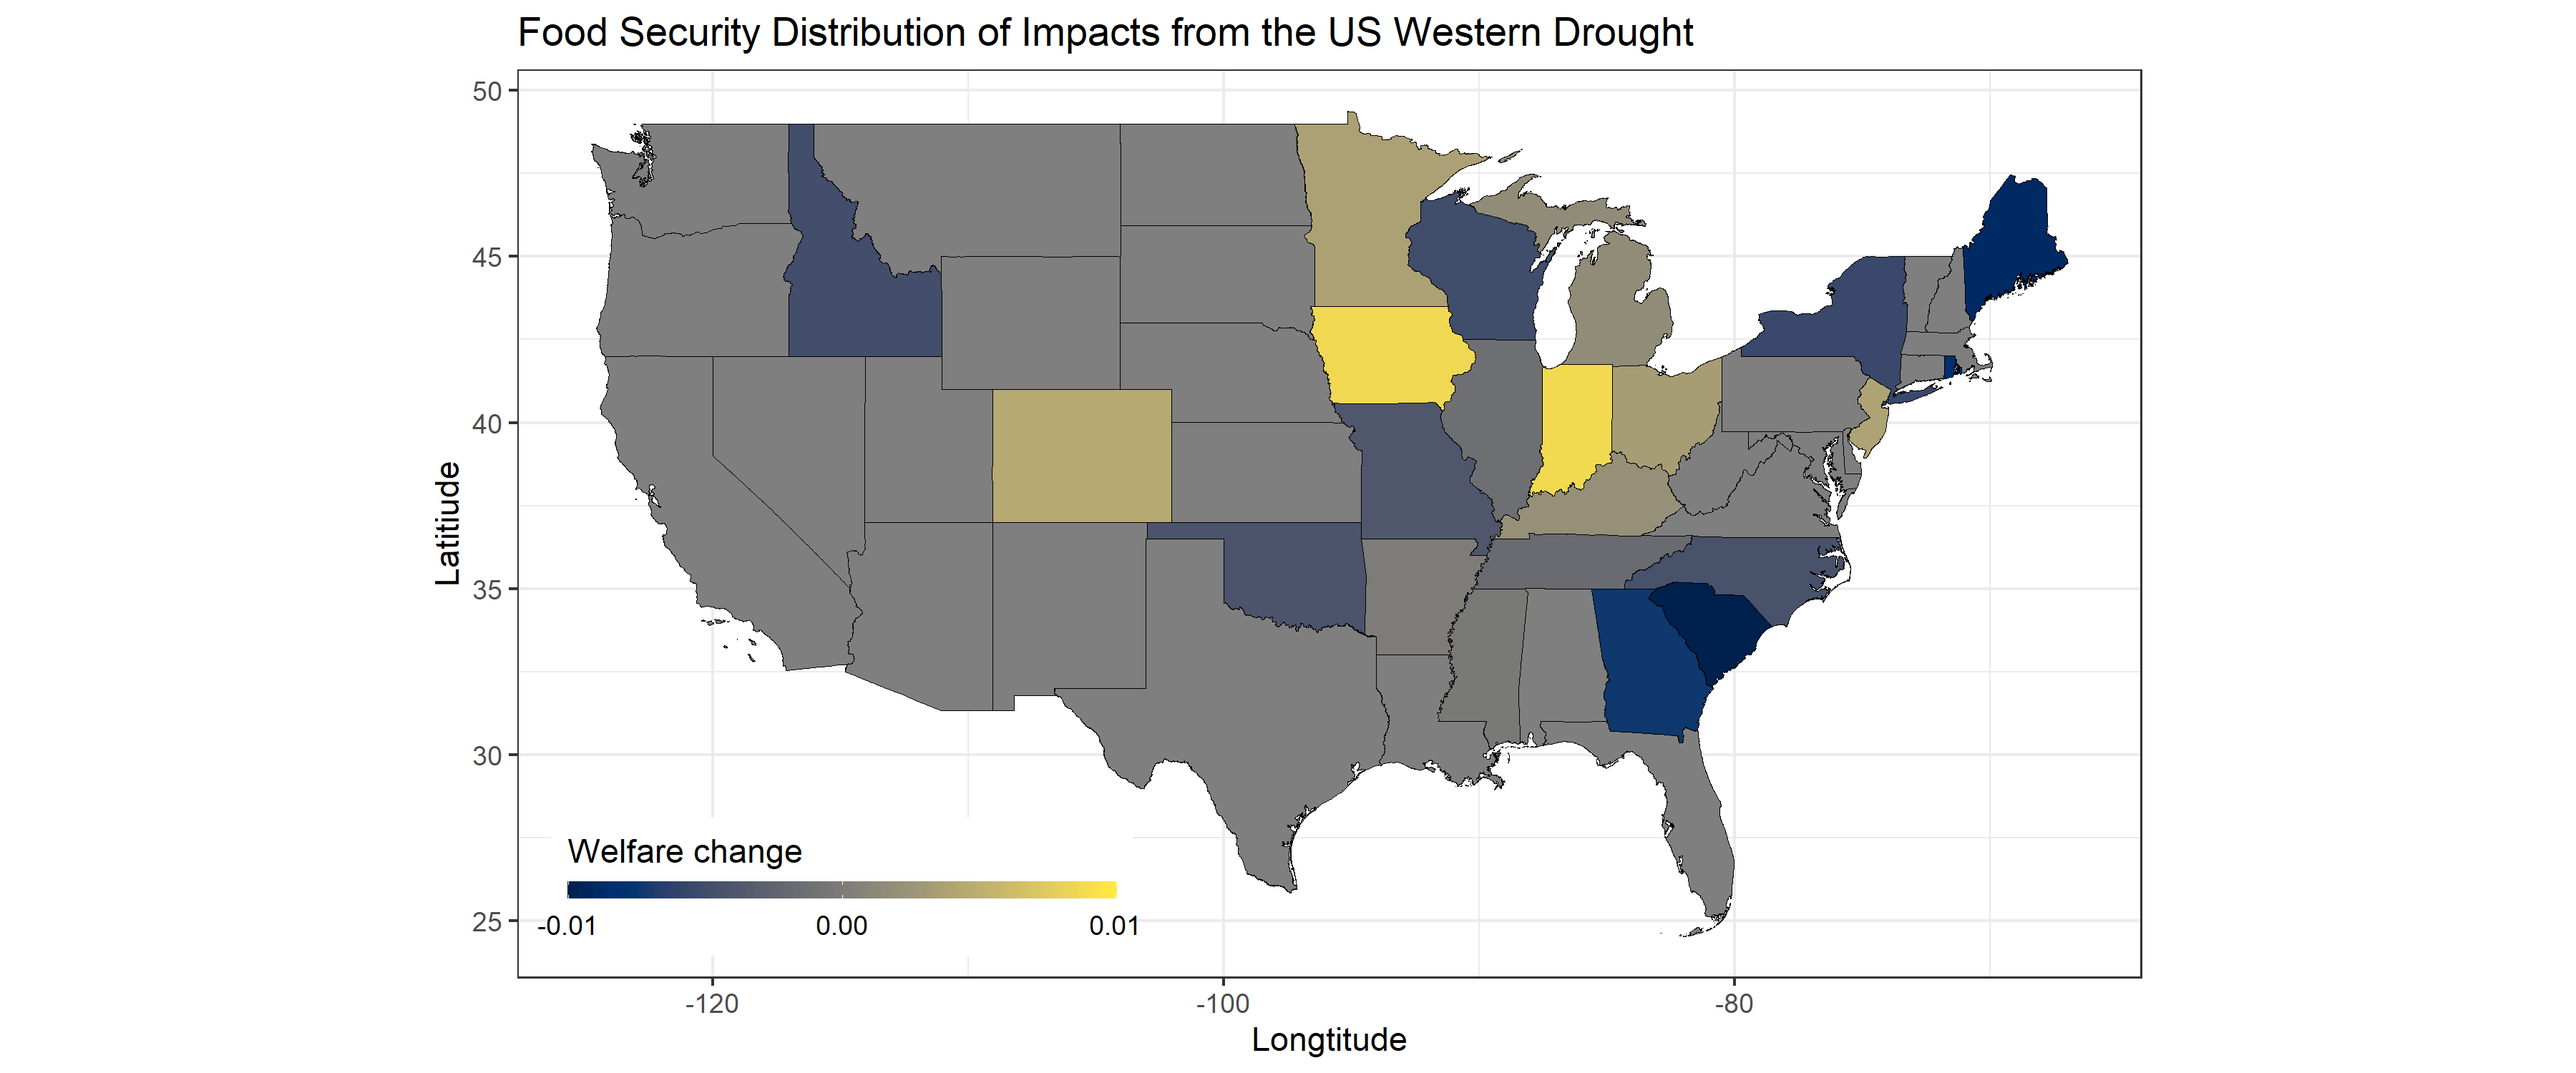
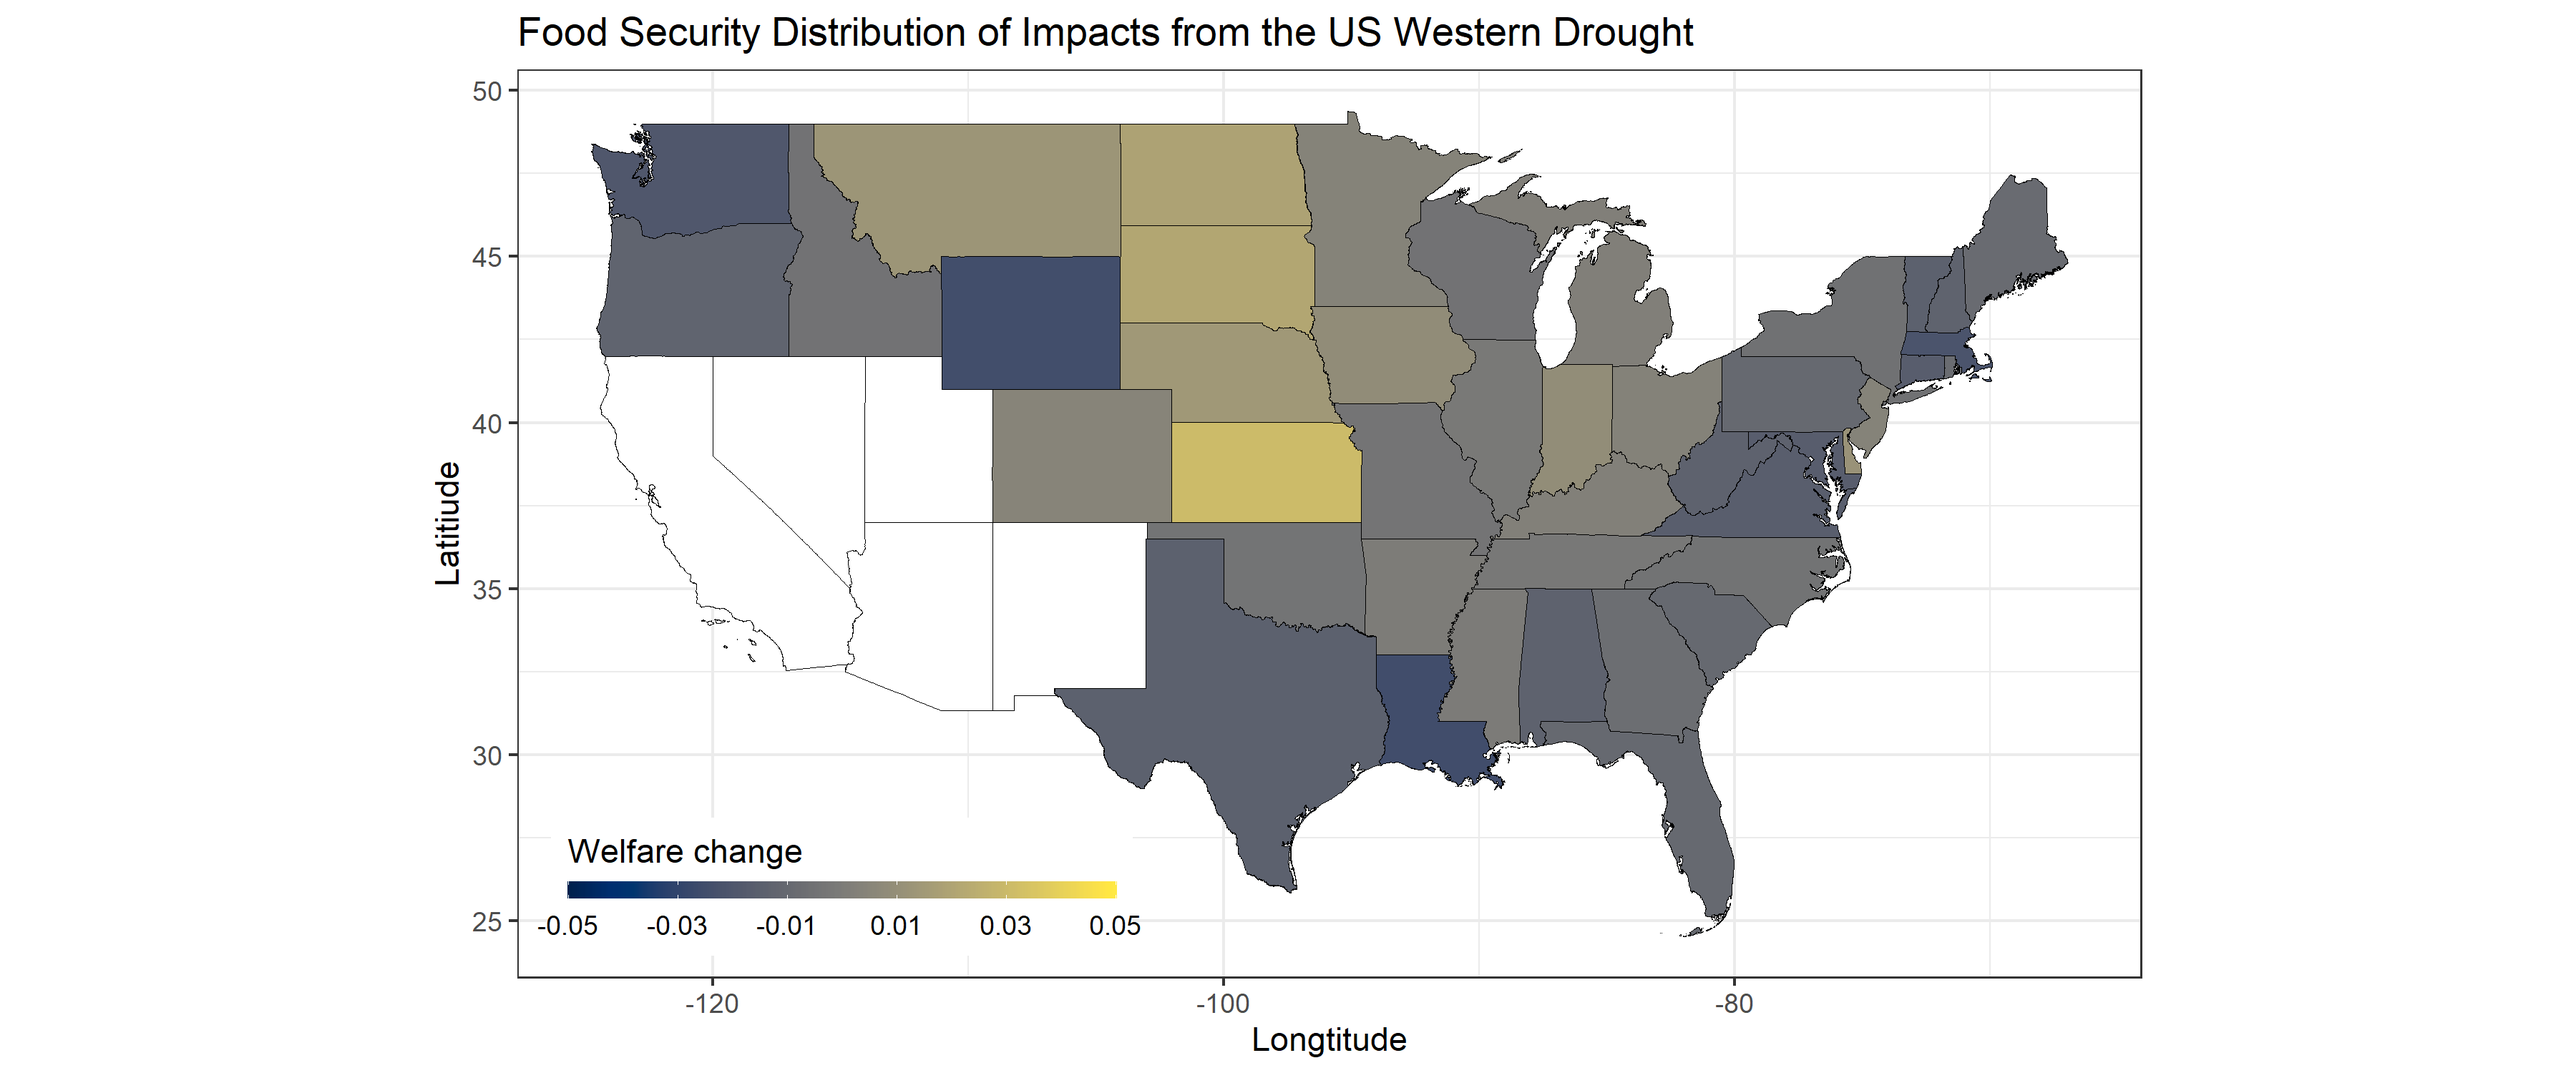
Excluding states impacted by the drought and improving the looks of the map

diff --git a/README.md b/README.md
@@ -1,12 +1,12 @@
-# suez_canal_and_US_food_security repository
+# What is the distributional effect of the Western drought in U.S. food security?
 
-**Description**: This repository performs a general equilibrium welfare analysis derived from a gravity model of domestic and international food flows between all U.S. states and from eight international sources. Then, it describes the results from a counterfactual that emulates the temporary closure of the Suez Canal on food security in U.S. states.
+**Description**: This repository performs a general equilibrium welfare analysis derived from a gravity model of domestic and international food flows between all U.S. states. Then, it describes the results from a counterfactual that emulates a drought affecting the Western part of the US.
 
-**Counterfactual results**: A simulation creates a counterfactual that doubles bilateral trade costs from three Asian regions possibly affected by the Suez Canal temporary closure to study welfare distributions in U.S. states. I find that most U.S. states will be affected by the food supply chain disruption, but with significant heterogeneity likely derived from the U.S. state's ability to substitute food imports for own production (Dall'Erba, Chen, Nava 2021) or the states reliance on food imports from Asian regions (Nava, Ridley and Dall'Erba submitted in AJAE). Moreover, a handful of U.S. states benefit from the temporary closure of the Suez Canal, suggesting that some U.S. food producers can gain market share. The picture below shows my counterfactual results.
+**Counterfactual results**: A simulation creates a counterfactual that decreases by 20% the agricultural productivity in Arizona, California, Nevada, New Mexico and Utah to emulate a the Western drought event. I find that most U.S. states will be affected by the the decrease in agricultural productivity, but with significant heterogeneity likely derived from the U.S. state's ability to substitute food imports for own production (Dall'Erba, Chen, Nava 2021) or the states reliance on food imports from these states (Nava, Ridley and Dall'Erba submitted in AJAE). The average welfare loss is 4% with the largest losses for the states impacted. I find a 3% reduction in wages in the U.S. The largest wage losses are associated with the states impacted by the drought.  Moreover, a handful of U.S. states benefit Western drought, suggesting that some U.S. food producers can gain market share. The picture below shows my counterfactual results excluding the states impacted by the drought (shown in white).
 
-![welfare_resulsts](output/two_fold.png)
+![welfare_resulsts](output/welfare.png)
 
-**Further consideration and caveats**: Counterfactual results from this analysis rely on assumptions and simplifications to prioritize the timely study of the effects of the temporary closure of the Suez Canal on food security in the U.S. In addition, little consideration is done to the magnitude of the effect. An appropriate analysis should consider the magnitude. Despite its limitations, counterfactual results are informative about the welfare distributions of the simulations. For example, not only there is significant heterogeneity in welfare losses, but there will be states that may benefit from the temporary food supply chain disruption. 
+**Further consideration and caveats**: Counterfactual results from this analysis rely on assumptions and simplifications to prioritize the timely study of the effects of the temporary closure of the Western drought. In addition, little consideration is done to the magnitude of the effect. An appropriate analysis should consider the magnitude. Despite its limitations, counterfactual results are informative about the welfare distributions of the simulations. For example, not only there is significant heterogeneity in welfare losses.
 
 The author is open to collaborations and suggestions.
 
